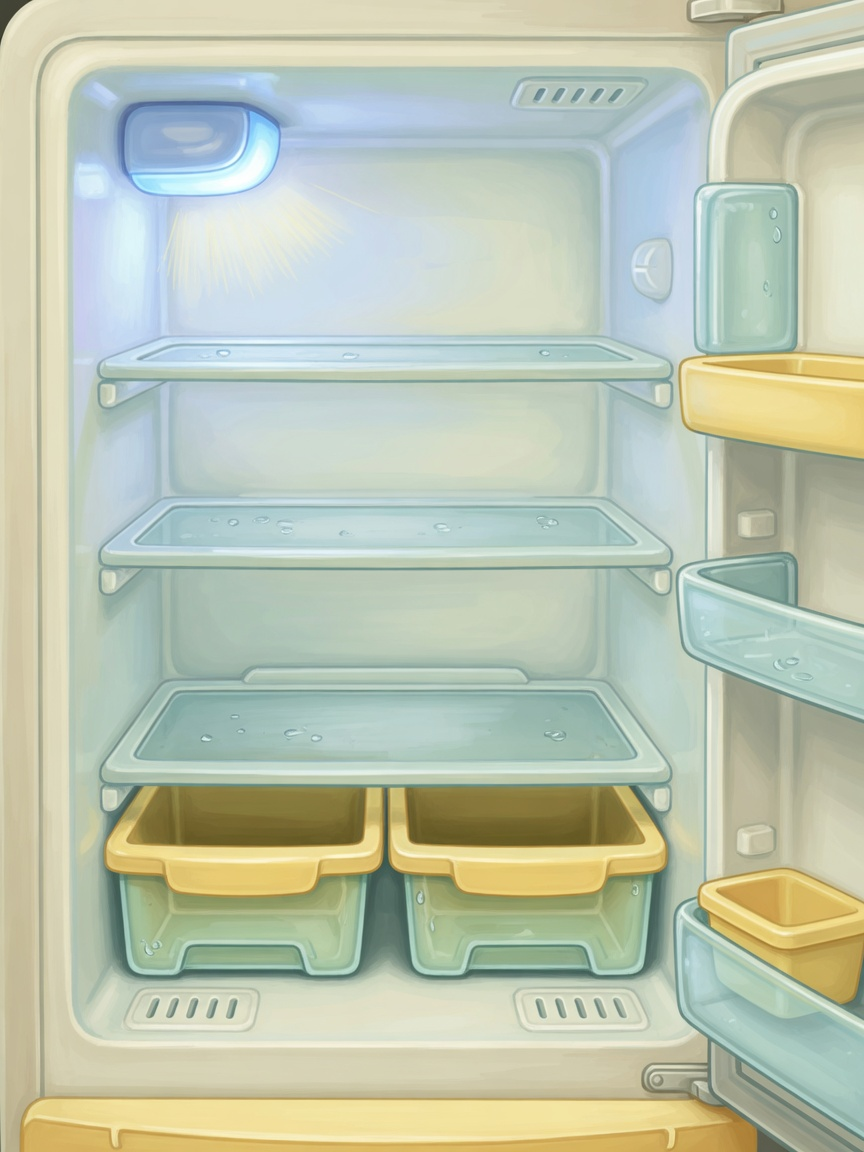
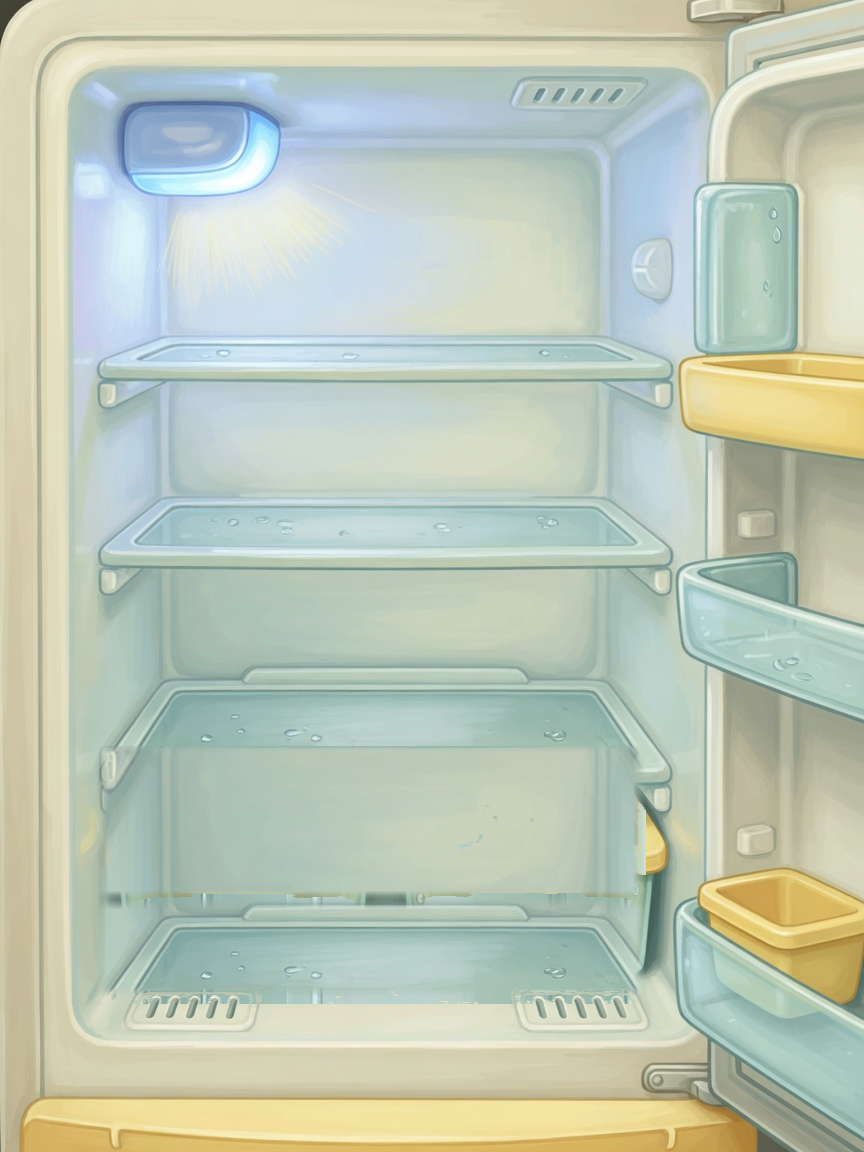
Make Fridge Raid's bottom row a fourth glass shelf.
Repaint the yellow drawers in fridge.png as another glass shelf, retune photo shelf zones so food sits on each lip, and drop play-door magnet stickers that read as junk overlays. Cache bump to fridge-raid-v17.

Changed region(s): [[0.0938, 0.625, 0.75, 0.875]]

diff --git a/fridge-raid/index.html b/fridge-raid/index.html
@@ -159,20 +159,10 @@
     .hero-fridge-wrap #hero-fridge-img {
       width: 100%;
     }
-    .magnet-stickers,
-    .play-magnets {
+    .magnet-stickers {
       position: absolute;
       pointer-events: none;
-    }
-    .magnet-stickers {
       inset: 10% 8% 12% 10%;
-    }
-    .play-magnets {
-      right: 5.5%;
-      top: 15%;
-      width: 24%;
-      height: 64%;
-      z-index: 2;
     }
     .magnet-sticker {
       position: absolute;
@@ -185,7 +175,6 @@
       filter: drop-shadow(0 2px 2px rgba(20, 40, 50, 0.28));
       transform: rotate(var(--tilt, -8deg));
     }
-    .play-magnets .magnet-sticker { font-size: clamp(0.85rem, 2.4vw, 1.15rem); }
     .rank-chip {
       display: inline-block;
       background: #fff6d8;
@@ -408,9 +397,9 @@
       gap: 0.22rem;
     }
     .fridge-stage.photo .shelf:nth-child(1) { top: 13.4%; height: 17.2%; }
-    .fridge-stage.photo .shelf:nth-child(2) { top: 30.4%; height: 16.4%; }
-    .fridge-stage.photo .shelf:nth-child(3) { top: 46.4%; height: 15%; }
-    .fridge-stage.photo .shelf:nth-child(4) { top: 68.6%; height: 18%; }
+    .fridge-stage.photo .shelf:nth-child(2) { top: 30.6%; height: 16.2%; }
+    .fridge-stage.photo .shelf:nth-child(3) { top: 47.0%; height: 14.4%; }
+    .fridge-stage.photo .shelf:nth-child(4) { top: 61.8%; height: 20.0%; }
 
     .slot {
       position: relative;
@@ -1267,7 +1256,6 @@
           <div class="fridge-frame" id="fridge-frame">
             <img id="fridge-art" class="fridge-art" alt="" hidden>
             <div class="fridge" id="fridge" aria-label="Fridge shelves"></div>
-            <div class="play-magnets" id="play-magnets" aria-hidden="true"></div>
           </div>
         </div>
         <div class="dock">
@@ -2405,10 +2393,8 @@
       const have = new Set(loadMagnets());
       const owned = MAGNETS.filter((magnet) => have.has(magnet.id));
       const title = document.getElementById("title-magnets");
-      const play = document.getElementById("play-magnets");
       const html = owned.map(magnetMarkup).join("");
       if (title) title.innerHTML = html;
-      if (play) play.innerHTML = html;
     }
 
     function magnetCountLabel() {

diff --git a/fridge-raid/sw.js b/fridge-raid/sw.js
@@ -1,4 +1,4 @@
-const CACHE = "fridge-raid-v16";
+const CACHE = "fridge-raid-v17";
 const ASSETS = [
   "./",
   "./index.html",

diff --git a/fridge-raid/README.md b/fridge-raid/README.md
@@ -49,13 +49,13 @@ Best stars per level persist in localStorage.
 
 Career stars (and Bus rush score) set your rank: **Rookie → Packer → Lunch Hero → Bus Hero**.
 
-Fridge Magnets are cosmetic stickers on the title fridge and play-door. Earn them from total stars and first 3-star clears. The title shows **🧲 count** and **Prize case · n/10**. Open the case to see locked slots (ink captions, dashed slate tiles) and the next unlock. Between levels you see stars, new magnets, and the next unlock tease. Collection persists in localStorage.
+Fridge Magnets are cosmetic stickers on the title fridge. Earn them from total stars and first 3-star clears. The title shows **🧲 count** and **Prize case · n/10**. Open the case to see locked slots (ink captions, dashed slate tiles) and the next unlock. Between levels you see stars, new magnets, and the next unlock tease. Collection persists in localStorage.
 
 The play HUD is one row (score, bus-timer, sealed count). The old need-guide strip stays hidden except for a Bus rush multiplier. Per-box pips carry the seal rule; a box that is one group short says **need protein** (not a bare almost). Protein pips use a **P** mark so cheese, yogurt, and milk still read as protein. Packing only refills the empty shelf slot — the rest of the fridge stays put until a named event. A fail screen shows **this stop** points, who still needs what, and **Try again**.
 
 ## Art
 
-If `fridge-raid/assets/` is present, the game uses `fridge.png` as the fridge backdrop and `{catalogId}.png` sprites (`apple.png`, `sandwich.png`, …). Missing PNGs keep the drawn fallback. Item sprites are transparent cutouts (`object-fit: contain`) overlaid on the fridge shelves — three large tap targets per shelf. Lunchbox docks stay compact so the fridge keeps most of the play viewport; Scout, Pip, Nori, and TOSS stay on-screen together. The play fridge uses `object-fit: contain` in a 3:4 box so the open door stays in frame.
+If `fridge-raid/assets/` is present, the game uses `fridge.png` as the fridge backdrop and `{catalogId}.png` sprites (`apple.png`, `sandwich.png`, …). Missing PNGs keep the drawn fallback. Item sprites are transparent cutouts (`object-fit: contain`) overlaid on four glass shelves — three large tap targets per shelf. Lunchbox docks stay compact so the fridge keeps most of the play viewport; Scout, Pip, Nori, and TOSS stay on-screen together. The play fridge uses `object-fit: contain` in a 3:4 box so the open door stays in frame.
 
 ## Food groups
 
